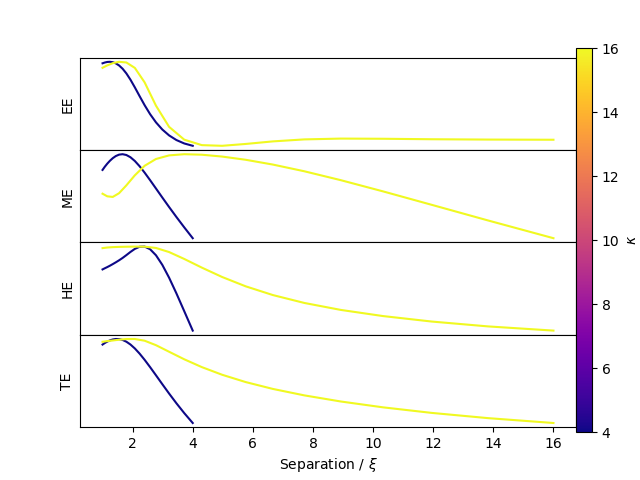
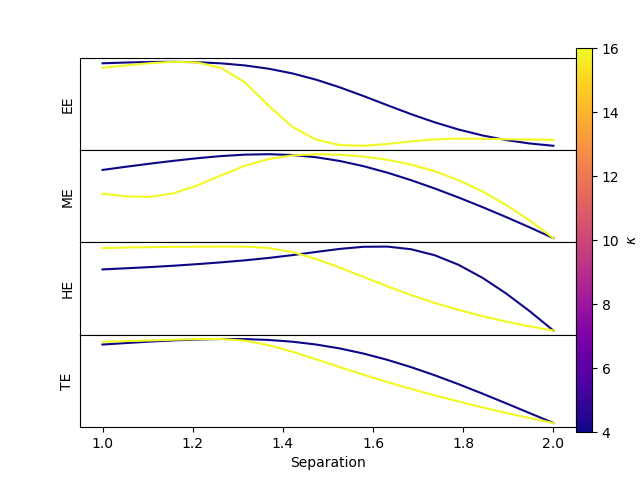
pushing k limit a bit

diff --git a/plot_energy.py b/plot_energy.py
@@ -25,7 +25,7 @@ for k_idx in range(num_Ks):
         file = 'data/' + str(k_idx) + '/' + str(a_idx) + '.npy'
         try:
             K, A, NL, NR, NU, NV, EE, ME, HE, TE, us, vs, V, Fu, Fv, C, J0, Ju, Jv, EED, MED, HED, TED = load(file)
-            separations.append(4*A/K)
+            separations.append(4*A)
             EEs.append(EE)
             MEs.append(ME)
             HEs.append(HE)
@@ -40,12 +40,15 @@ for k_idx in range(num_Ks):
     energies = [EEs, MEs, HEs, TEs]
     for idx, Es in enumerate(energies):
         try:
-            axes[idx].plot(separations, normalize(Es), c = colors[k_idx])
+            array = np.array(separations)
+            base = K
+            log_separations = np.emath.logn(base, array)
+            axes[idx].plot(log_separations, normalize(Es), c = colors[k_idx])
         except:
             pass
 
 plt.subplots_adjust(hspace=0)
-axes[-1].set_xlabel('Separation / ' + r'$\xi$')
+axes[-1].set_xlabel('Separation')
 
 
 import matplotlib as mpl

diff --git a/params.py b/params.py
@@ -8,13 +8,12 @@ tol = 1e-6
 max_iter = 30
 
 def K_func(K_idx, A_idx):
-    Ks = np.logspace(2, 4, num=num_Ks, base=2)
+    Ks = np.logspace(1, 5, num=num_Ks, base=2)
     return Ks[K_idx]
 
 def A_func(K_idx, A_idx):
     K = K_func(K_idx, A_idx)
     As = np.logspace(1, 2, num=num_As, base = K) / 4
-    #As = np.linspace(K/4, K, num_As)
     return As[A_idx]
 
 if __name__ == '__main__':
